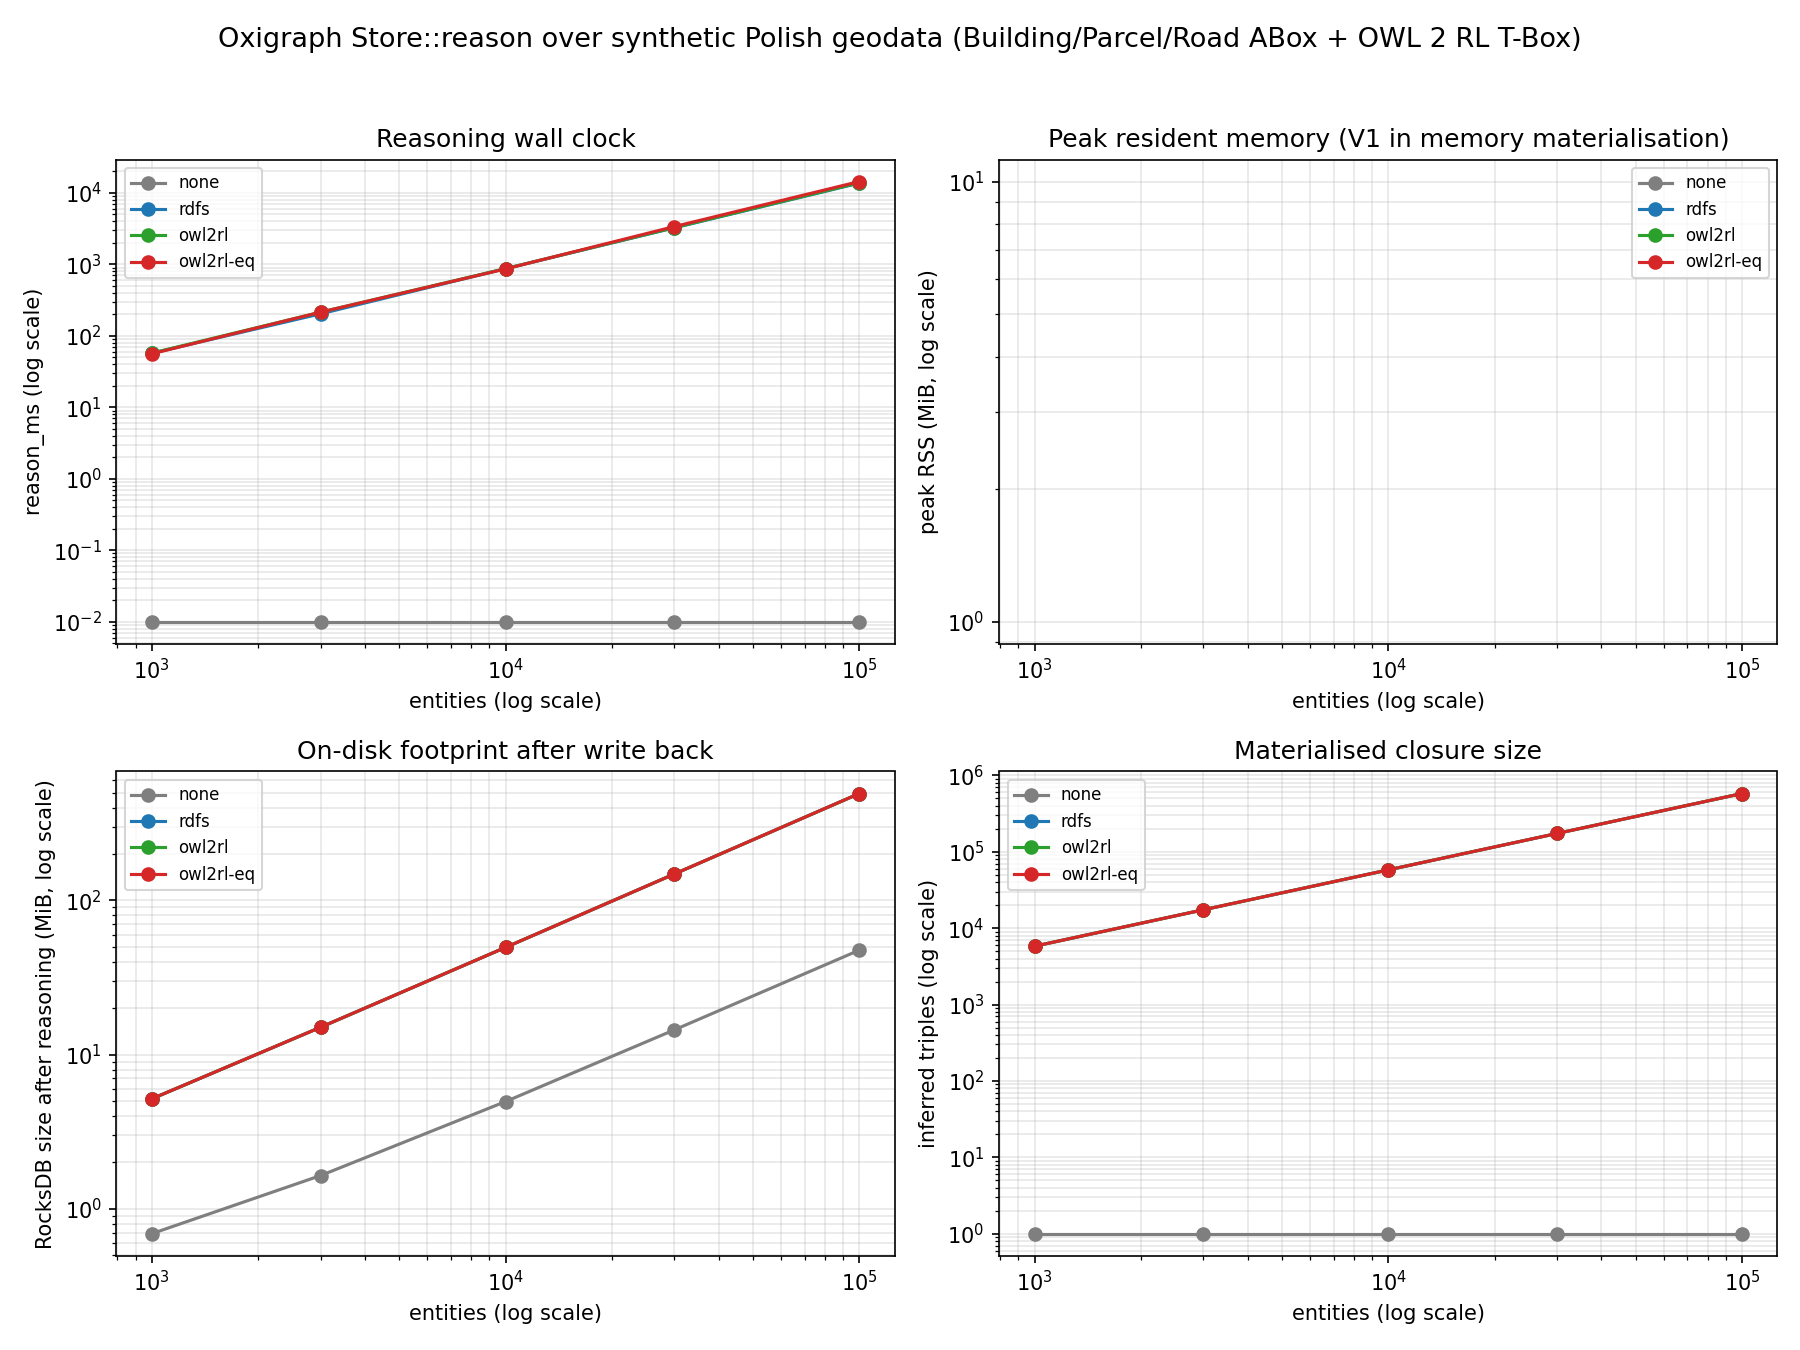
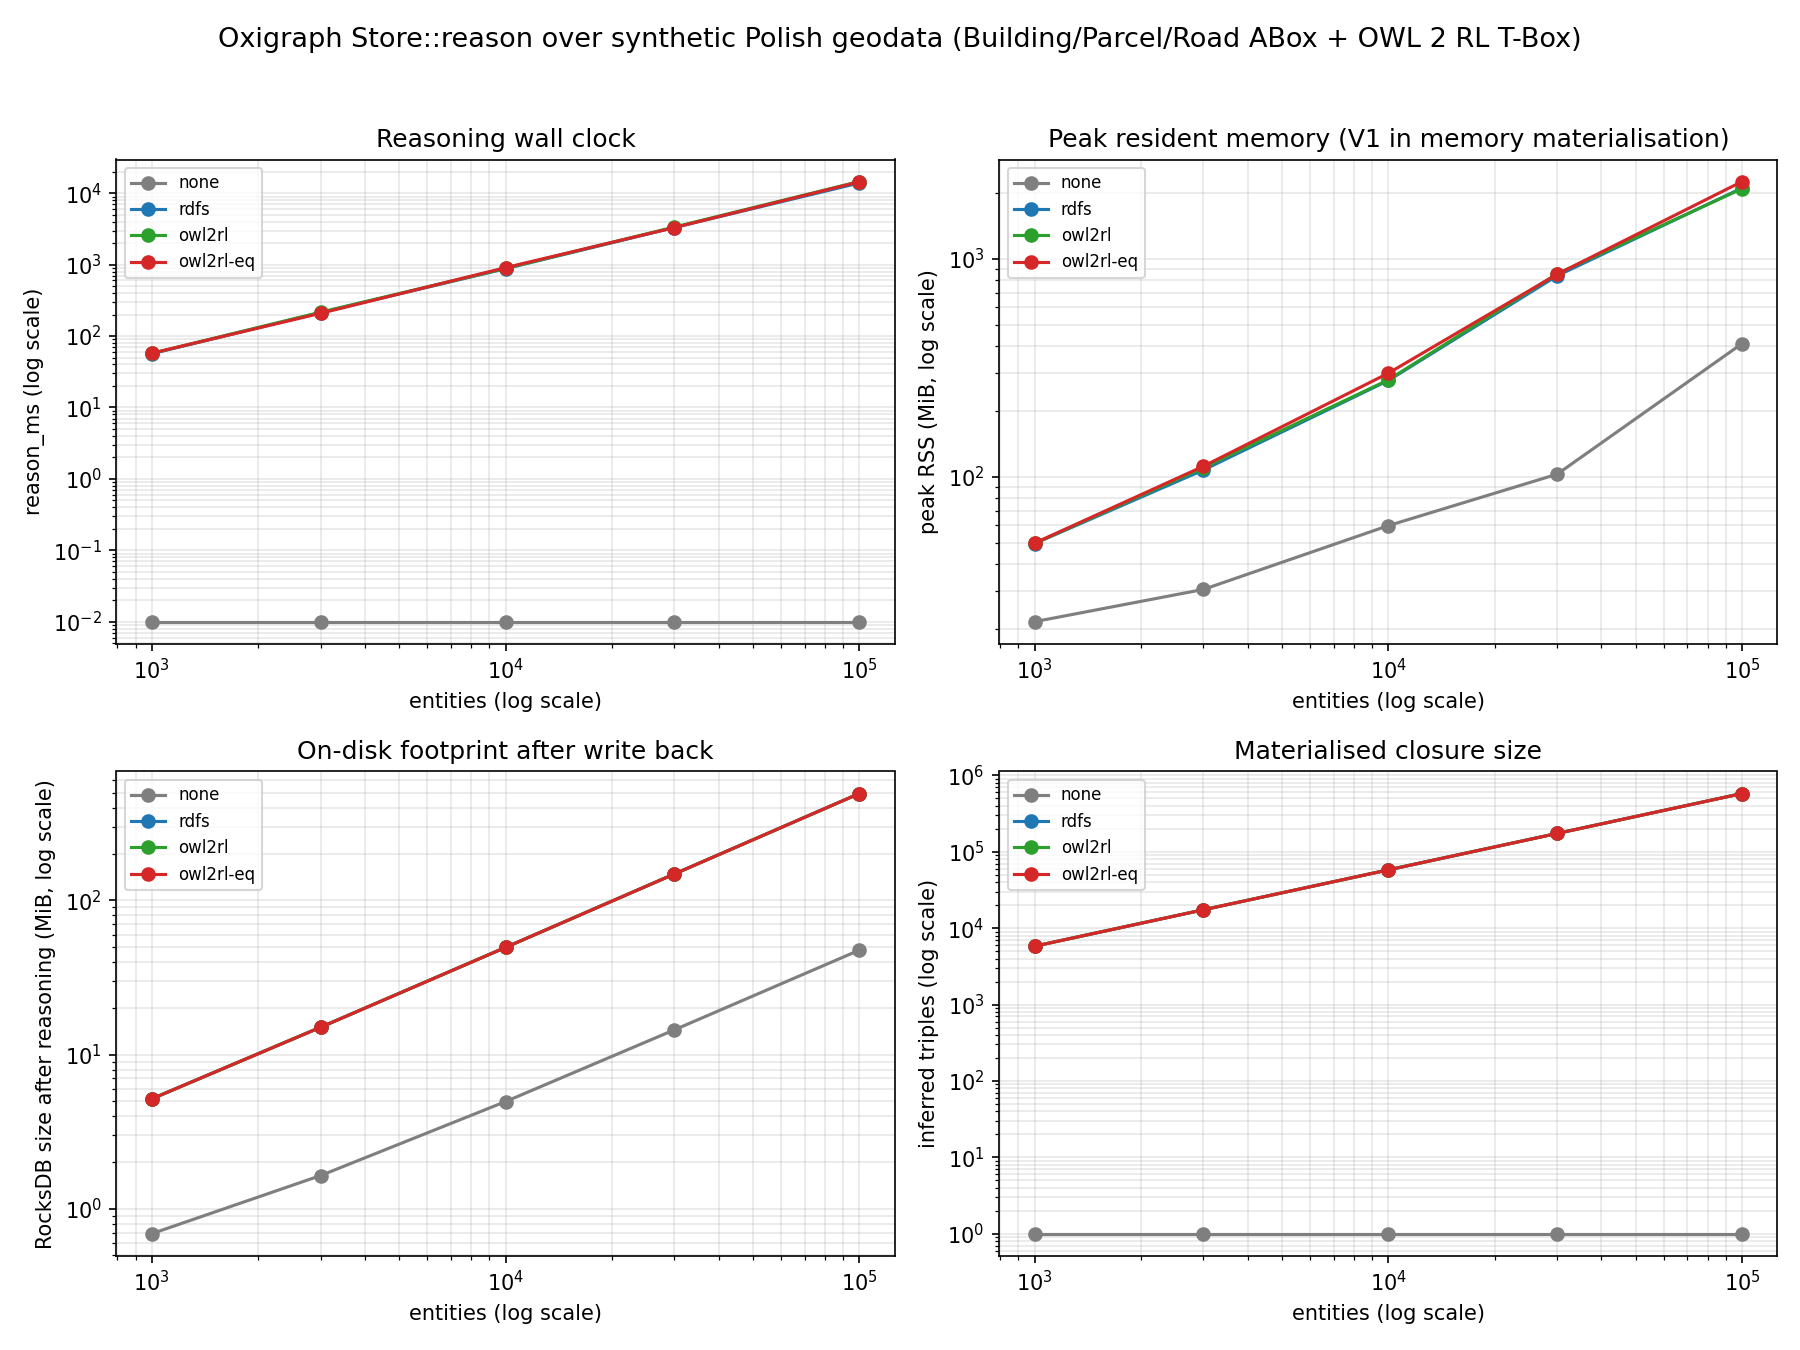
oxigraph/oxigraph#130 spatial reasoning benchmark on macos

diff --git a/bench/geosparql/native/src/main.rs b/bench/geosparql/native/src/main.rs
@@ -570,27 +570,33 @@ fn dir_size_bytes(root: &Path) -> Result<u64, Box<dyn std::error::Error>> {
     Ok(total)
 }
 
-/// Peak resident set size of the current process in MiB. Parses
-/// `/proc/self/status` VmHWM on Linux. Returns `None` on platforms
-/// without that interface or if the file cannot be read.
+/// Peak resident set size of the current process in MiB.
+///
+/// Calls `getrusage(RUSAGE_SELF)` on Unix and reads `ru_maxrss`. The
+/// POSIX unit for that field is KiB, but macOS diverges and reports
+/// bytes; we branch on `target_os` to convert. Returns `None` on
+/// non-Unix platforms or if the syscall fails.
+#[cfg(unix)]
 fn peak_rss_mb() -> Option<f64> {
-    #[cfg(target_os = "linux")]
-    {
-        let status = fs::read_to_string("/proc/self/status").ok()?;
-        for line in status.lines() {
-            if let Some(rest) = line.strip_prefix("VmHWM:") {
-                let kib: f64 = rest
-                    .split_whitespace()
-                    .next()?
-                    .parse()
-                    .ok()?;
-                return Some(kib / 1024.0);
-            }
-        }
-        None
+    let mut usage: libc::rusage = unsafe { std::mem::zeroed() };
+    let ret = unsafe { libc::getrusage(libc::RUSAGE_SELF, &mut usage) };
+    if ret != 0 {
+        return None;
     }
-    #[cfg(not(target_os = "linux"))]
+    let raw = usage.ru_maxrss as f64;
+    #[cfg(target_os = "macos")]
     {
-        None
+        // macOS reports ru_maxrss in bytes, not KiB.
+        Some(raw / (1024.0 * 1024.0))
     }
+    #[cfg(not(target_os = "macos"))]
+    {
+        // Linux and other Unix variants follow POSIX: KiB.
+        Some(raw / 1024.0)
+    }
+}
+
+#[cfg(not(unix))]
+fn peak_rss_mb() -> Option<f64> {
+    None
 }

diff --git a/bench/geosparql/bench_reason.py b/bench/geosparql/bench_reason.py
@@ -218,13 +218,16 @@ def plot(summary: dict, path: Path) -> None:
         xs = [row["entities"] for row in rows]
         color = PROFILE_COLORS.get(profile)
 
+        # Floor clamp each series so log-scale rendering does not
+        # choke on a non-positive value (e.g. reason_ms is 0 for the
+        # `none` profile, peak_rss_mb is 0 on non-Unix platforms).
         reason_values = [max(row["reason_ms_median"], 0.01) for row in rows]
         ax_reason.plot(xs, reason_values, marker="o", label=profile, color=color)
 
-        rss_values = [row["peak_rss_mb_median"] for row in rows]
+        rss_values = [max(row["peak_rss_mb_median"], 0.01) for row in rows]
         ax_rss.plot(xs, rss_values, marker="o", label=profile, color=color)
 
-        disk_values = [row["on_disk_mb_after_median"] for row in rows]
+        disk_values = [max(row["on_disk_mb_after_median"], 0.01) for row in rows]
         ax_disk.plot(xs, disk_values, marker="o", label=profile, color=color)
 
         added_values = [max(row["added"], 1) for row in rows]
